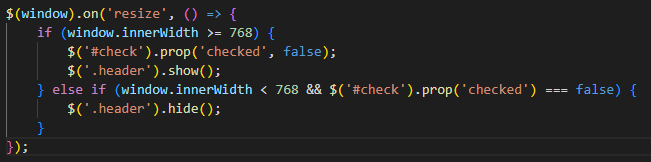
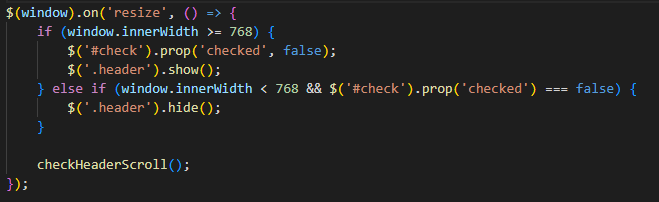
More refactoring, comment updating. I updated code snippet images and description after app.js refactoring

diff --git a/examples.html b/examples.html
@@ -83,11 +83,13 @@ Please see _mixins.scss for mixins and _functions.scss for functions.
                             <img class="coding__snippet snip-1" src="img/code-snippet-1.png" alt="code snippet 1">
                             <div class="coding__text">
                                 <p>
-                                    This function is called whenever the page loads. It's used to apply styles to the navigation links.
-                                    It determines the current page based on a URL ending with a specific string.
+                                    This function is called whenever the page loads. It's used to apply styles to the navigation links, 
+                                    uncheck the side menu button checkbox, clear form input fields and runs a function which determines if 
+                                    the header scroll button should be visible. It determines the current page based on a URL ending with a 
+                                    specific string.
                                 </p>
                                 <p> 
-                                    I'm using jQuery to select the document and attaching an anonymous arrow function to the ready() event.
+                                    I'm using jQuery to select the document and attaching an anonymous arrow function to the ready event.
                                     First, I grab the URL of the current page and store it in the constant currentURL. I then 
                                     run the constant through a conditional. The first conditonal checks to see if URL ends 
                                     with anything which indicates index.html is the page currently being used. This is followed by 
@@ -95,11 +97,11 @@ Please see _mixins.scss for mixins and _functions.scss for functions.
                                     with about.html, examples.html or scs.html.
                                 </p>
                                 <p>
-                                    The reason why I have 6 statements in the first conditional is to account for a number of issues that arise 
-                                    when the page loads from differnt sources (local server, github pages, cPanel domain). It also addresses the 
-                                    issue of the "My Portfolio" and "Contact Me" navigation links being page-local hyperlinks. This means, when clicked, 
-                                    the browser will show the linked element. In this case, the main logo would be the active link as the portfolio section 
-                                    and contact form reside on the homepage (index.html).
+                                    The reason why I have 6 statements in the first conditional is to account for a number of issues that 
+                                    arise when the page loads from differnt sources (local server, github pages, cPanel domain). It also 
+                                    addresses the issue of the "My Portfolio" and "Contact Me" navigation links being page-local hyperlinks. 
+                                    In this case, the main logo would be the active link as the portfolio section and contact form reside on 
+                                    the homepage (index.html).
                                 </p>
                                 <p>
                                     If for some reason none of the conditions are met, the function will log a message to the JS console. I used a string 
@@ -117,7 +119,8 @@ Please see _mixins.scss for mixins and _functions.scss for functions.
                             <div class="coding__text">
                                 <p>
                                     This function is called whenever the browser window is resized. It's used to fix site-breaking 
-                                    behaviour and manipulates the side menu button and the vertical header.  
+                                    behaviour and manipulates the side menu button and the vertical header. It then runs a function 
+                                    which determines if the header scroll button should be visible.
                                 </p>
                                 <p>
                                     While building my website in responsive mode using my browser's developer tools, I noticed after I implemented 

diff --git a/js/app.js b/js/app.js
@@ -301,6 +301,7 @@ scroll button should be visible:
 */
 $(document).ready(() => {
     const currentURL = window.location.href;
+
     if (currentURL.endsWith('index.html') || currentURL.endsWith('#portfolio') ||
         currentURL.endsWith('#form-anchor') || currentURL.endsWith('portfolio/') || 
         currentURL.endsWith('scs.co.uk/') || currentURL.endsWith(':5500/')) { 
@@ -314,8 +315,10 @@ $(document).ready(() => {
     } else {
         console.log(`Error: Cannot determine active link for ${currentURL}`);
     }
+
     $('#check').prop('checked', false);
     $('.contact__input').val('');
+
     checkHeaderScroll();
 });
 
@@ -350,6 +353,7 @@ $(window).on('resize', () => {
     } else if (window.innerWidth < 768 && $('#check').prop('checked') === false) {
         $('.header').hide();
     }
+    
     checkHeaderScroll();
 });
 
